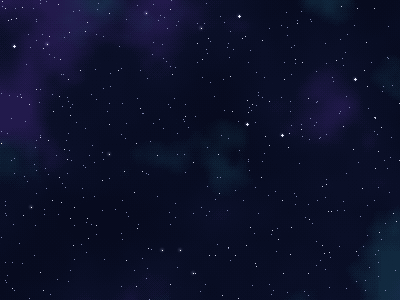
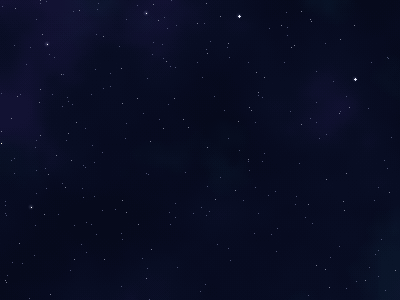
소행성과 파편이 잘 보이게 배경을 어둡게 바꿈
소행성이 많이 나올 때 밝은 별과 성운에 섞여 잘 안 보였음
성운은 옅게, 별은 적고 어둡게 하고 밝은 별은 전장 밖 가장자리에만 남김
pixelfx 배경 소스에 옵션을 더해 다시 그림

diff --git a/tools/pixelfx/moonkeeper/background.js b/tools/pixelfx/moonkeeper/background.js
@@ -3,7 +3,9 @@ import { fbm, rand, fit, clamp, hex, mix } from "../../core/index.js";
 export const meta = {
   name: "Space background", desc: "The playfield backdrop at half size, drawn 2x to fill 800 x 600: deep navy space, faint violet and teal nebula, stars of three sizes.",
   tags: ["moonkeeper", "background"], size: [400, 300], origin: [0, 0], duration: 1, loop: true, fps: 1, bg: "dark",
-  options: { palette: ["#070b1f", "#0e1330", "#161d44", "#2a2a5c", "#3a4580"], nebula: ["#3b2370", "#1f5a6e"], seed: 11 },
+  options: { palette: ["#070b1f", "#0e1330", "#161d44", "#2a2a5c", "#3a4580"], nebula: ["#3b2370", "#1f5a6e"], seed: 11,
+    // 소행성과 파편이 잘 보이게 성운은 옅게 별은 적고 어둡게, 밝은 별은 전장 밖 가장자리에만
+    nebulaK: 0.35, starK: 0.5, bright: 10, dim: 0.4, darken: 0.15, edgeOnly: true },
 };
 
 export function draw(p, t, o) {
@@ -15,16 +17,20 @@ export function draw(p, t, o) {
     const q = (k) => clamp(Math.round(k * 4 + B * 4) / 4);
     let c = mix(C[0], C[1], q(0.5 + n1 * 0.9));
     const v = q(clamp((n1 - 0.08) * 2.4)), te = q(clamp((n2 - 0.15) * 2.2));
-    if (v > 0) c = mix(c, N[0], v * 0.45);
-    if (te > 0) c = mix(c, N[1], te * 0.35);
+    const nk = o.nebulaK ?? 1, sk = o.starK ?? 1;
+    if (v > 0) c = mix(c, N[0], v * 0.45 * nk);
+    if (te > 0) c = mix(c, N[1], te * 0.35 * nk);
+    if (o.darken) c = mix(c, hex("#03050f"), o.darken);
     const s = rand(x, y, o.seed);
-    if (s < 0.003) return star[0];
-    if (s < 0.0042) return star[1];
+    if (s < 0.003 * sk) return o.dim ? mix(star[0], C[0], o.dim) : star[0];
+    if (s < 0.0042 * sk) return o.dim ? mix(star[1], C[0], o.dim) : star[1];
     return c;
   });
   // a few bright stars with a cross glint
-  for (let i = 0; i < 14; i++) {
+  for (let i = 0; i < (o.bright ?? 14); i++) {
     const x = Math.floor(rand(i, 1, o.seed) * 400), y = Math.floor(rand(i, 2, o.seed) * 300);
+    // edgeOnly 면 전장 가운데는 비우고 가장자리에만 밝은 별
+    if (o.edgeOnly && Math.hypot(x - 200, (y - 150) * 1.33) < 150) continue;
     p.px(x, y, star[2]);
     if (i % 3 === 0) { p.px(x - 1, y, star[1]); p.px(x + 1, y, star[1]); p.px(x, y - 1, star[1]); p.px(x, y + 1, star[1]); }
     p.glow(x, y, 4, star[1], 0.25);
